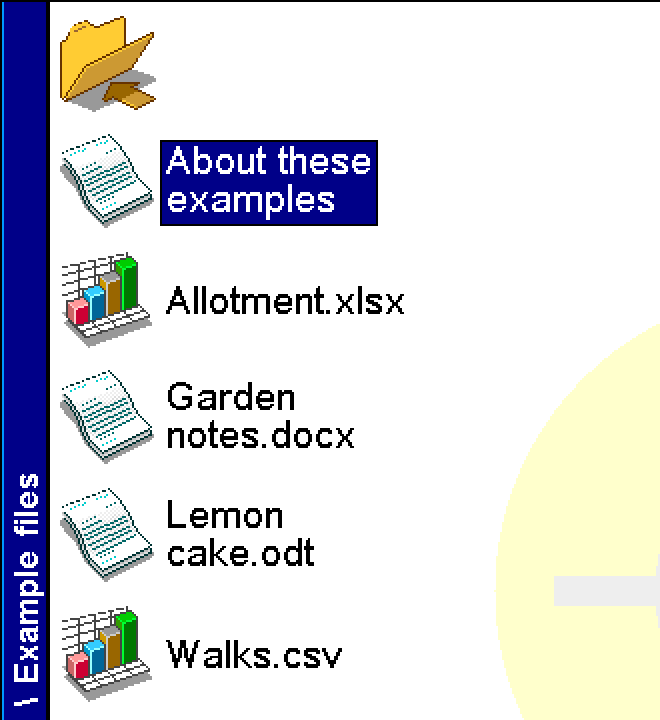
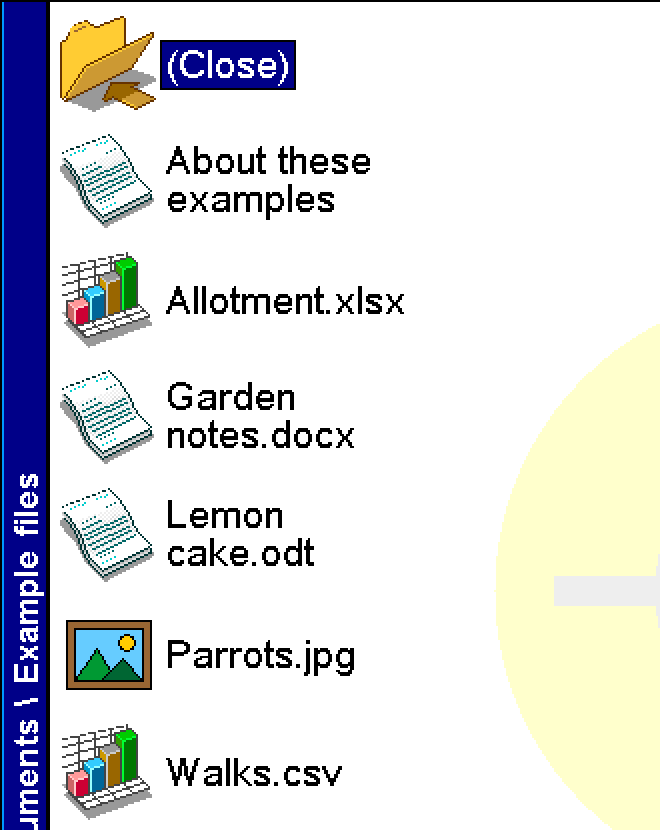
Example files: the parrots photo, Re-install brings back Coda's

diff --git a/STATUS.md b/STATUS.md
@@ -17,7 +17,7 @@ Everything Coda changes, one row each, with a screenshot of the bit that changed
 |---|---|---|---|---|
 | Opera and Java | About 4.7 MB of an old browser and a Java runtime. | Removed (Psion's Web and its engine on v1.05(254)). | <a href="img/2026-11-12-starting-point/extras-before.png"><img src="img/2026-11-12-starting-point/extras-before.png" width="140" alt="Opera and Java"></a> <a href="img/2026-11-12-starting-point/extras-after.png"><img src="img/2026-11-12-starting-point/extras-after.png" width="140" alt="Opera and Java"></a> | [post](posts/2026-11-12-the-starting-point.md) |
 | Comms, nFTP | Replaced by PsiTerm, or unsafe (FTP in clear). | Removed to make room. | <a href="img/2026-11-12-starting-point/extras-before.png"><img src="img/2026-11-12-starting-point/extras-before.png" width="140" alt="Comms, nFTP"></a> <a href="img/2026-11-12-starting-point/extras-after.png"><img src="img/2026-11-12-starting-point/extras-after.png" width="140" alt="Comms, nFTP"></a> | [post](posts/2026-11-12-the-starting-point.md) |
-| Example files | Psion's example documents and "Welcome to netBook" in the Documents folder: old, and nothing in them about Office files. | Psion's removed. Coda's own in their place, in Documents > Example files on a new C: disk, 13 KB in all: Garden notes (.docx: headings, a list, a picture that opens as a Sketch, a table as tabbed text, and things to try), Allotment (.xlsx: a harvest to filter and summarise, SUMIF and COUNTIF that recalculate as Sheet's own formulas, a second worksheet to try Fill down and Fill series on), Lemon cake (.odt), Walks (.csv) and "About these examples", a Word file. On the way, a fix: spreadsheets opened from Office files now recalculate when a cell changes. | <a href="img/2026-11-16-example-files/folder-2x.png"><img src="img/2026-11-16-example-files/folder-2x.png" width="140" alt="Documents > Example files"></a> <a href="img/2026-11-16-example-files/garden-2x.png"><img src="img/2026-11-16-example-files/garden-2x.png" width="200" alt="Garden notes.docx in Word"></a> <a href="img/2026-11-16-example-files/allotment-2x.png"><img src="img/2026-11-16-example-files/allotment-2x.png" width="200" alt="Allotment.xlsx in Sheet, recalculated"></a> | [post](posts/2026-11-12-the-starting-point.md) |
+| Example files | Psion's example documents and "Welcome to netBook" in the Documents folder: old, and nothing in them about Office files. | Psion's removed, none left. Coda's own in their place, in Documents > Example files on a new C: disk, 67 KB in all: Garden notes (.docx: headings, a list, a picture that opens as a Sketch, a table as tabbed text, and things to try), Allotment (.xlsx: a harvest to filter and summarise, SUMIF and COUNTIF that recalculate as Sheet's own formulas, a second worksheet to try Fill down and Fill series on), Lemon cake (.odt), Walks (.csv), Parrots (a photo, Kodak's "kodim23", shown in its own colours) and "About these examples", a Word file. Tools > Re-install sample files brings back these, not Psion's; with the folder there it asks before replacing, and leaves no duplicates. The files can be edited and saved. On the way, a fix: spreadsheets opened from Office files now recalculate when a cell changes. | <a href="img/2026-11-16-example-files/folder-2x.png"><img src="img/2026-11-16-example-files/folder-2x.png" width="140" alt="Documents > Example files"></a> <a href="img/2026-11-16-example-files/garden-2x.png"><img src="img/2026-11-16-example-files/garden-2x.png" width="200" alt="Garden notes.docx in Word"></a> <a href="img/2026-11-16-example-files/allotment-2x.png"><img src="img/2026-11-16-example-files/allotment-2x.png" width="200" alt="Allotment.xlsx in Sheet, recalculated"></a> <a href="img/2026-11-16-example-files/parrots-2x.png"><img src="img/2026-11-16-example-files/parrots-2x.png" width="200" alt="Parrots.jpg"></a> <a href="img/2026-11-16-example-files/reinstall-2x.png"><img src="img/2026-11-16-example-files/reinstall-2x.png" width="200" alt="Re-install sample files with the folder there"></a> | [post](posts/2026-11-12-the-starting-point.md) |
 | Fax programs | A Fax editor and viewer, for a phone line nobody faxes from. | Removed with their engine, printer driver and templates (Extras bar shown). | <a href="img/2026-11-12-starting-point/extras-after.png"><img src="img/2026-11-12-starting-point/extras-after.png" width="200" alt="Fax programs"></a> | [post](posts/2026-11-14-the-review.md) |
 | NetStatRF | A signal-strength meter for the wireless LAN cards of 2002. The drivers for those cards stay. | Removed. | <a href="img/2026-11-15-polish/extras-before.png"><img src="img/2026-11-15-polish/extras-before.png" width="70" alt="NetStatRF"></a> <a href="img/2026-11-15-polish/extras-after.png"><img src="img/2026-11-15-polish/extras-after.png" width="70" alt="NetStatRF"></a> | [post](posts/2026-11-12-the-starting-point.md) |
 
